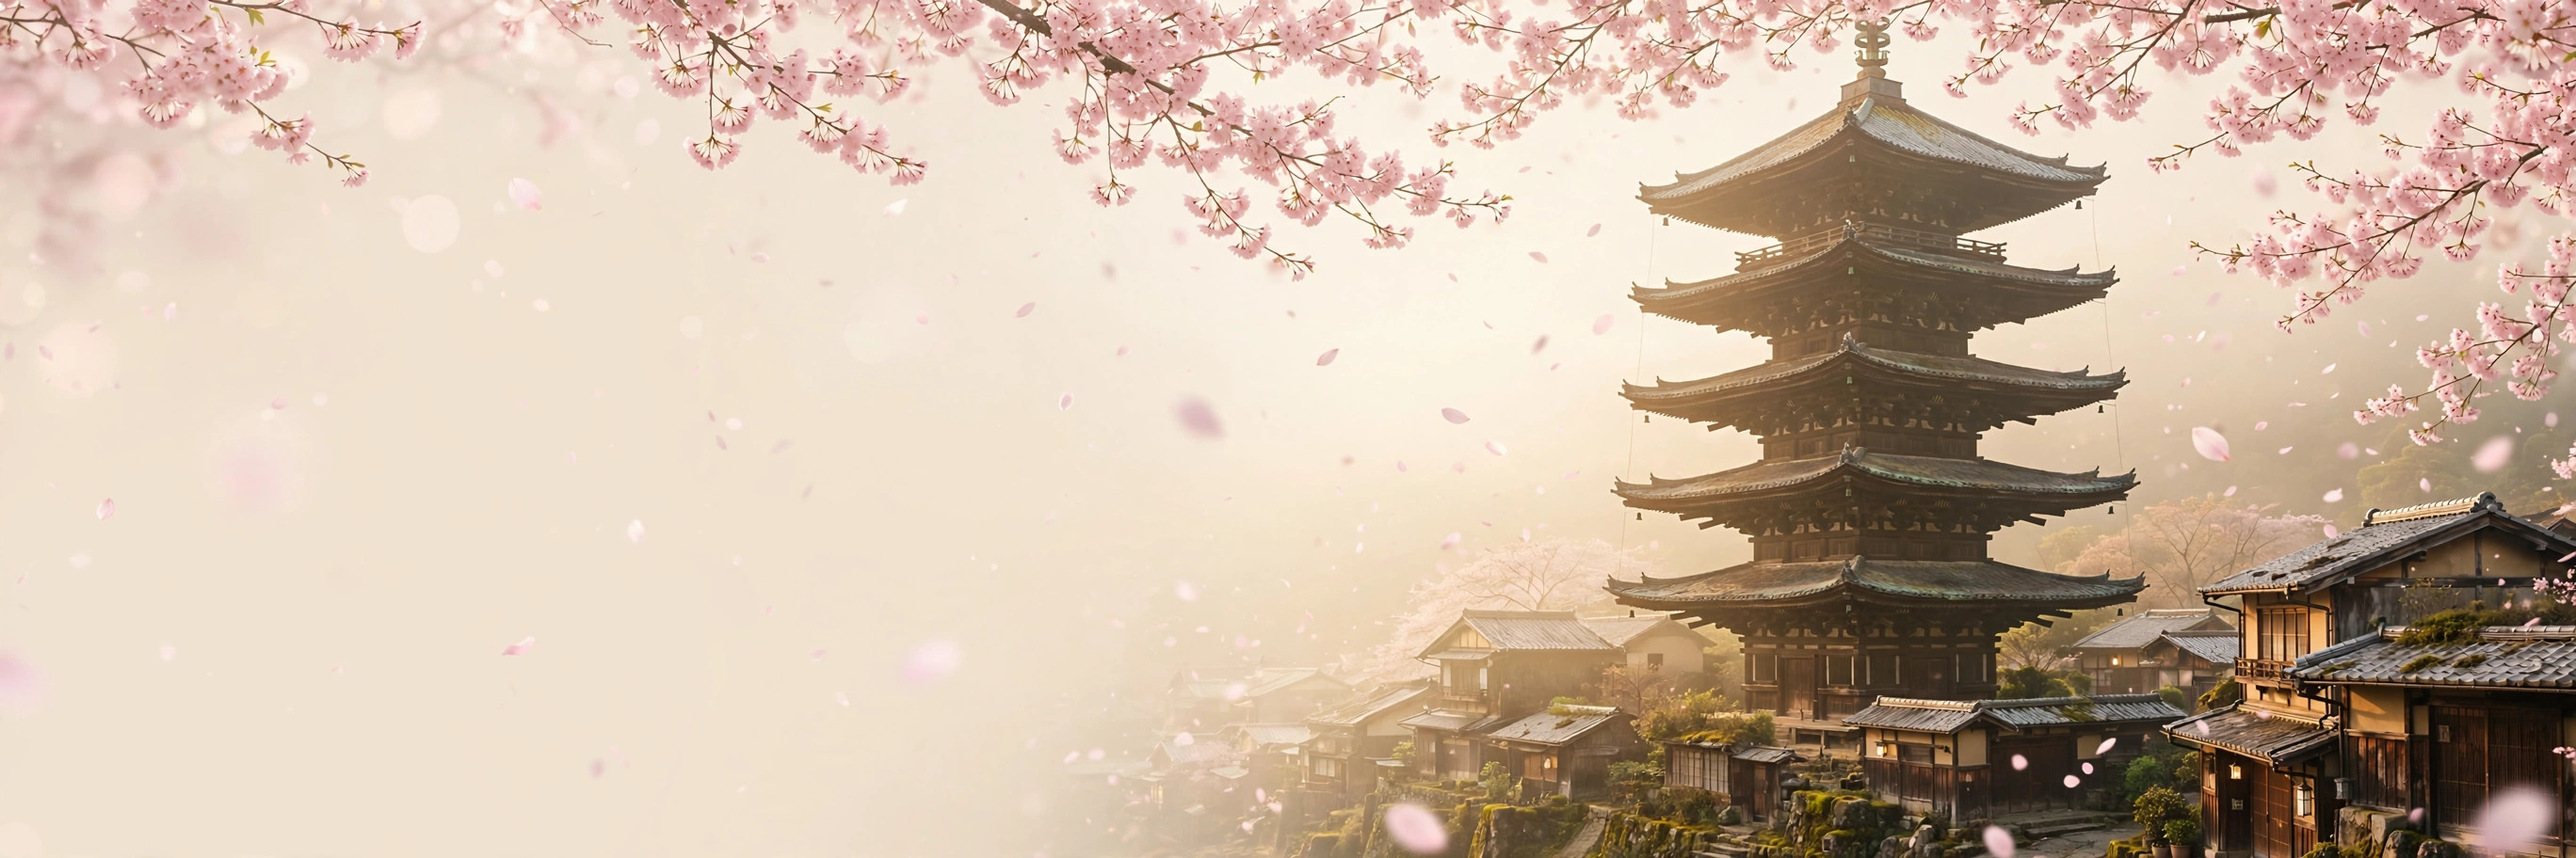
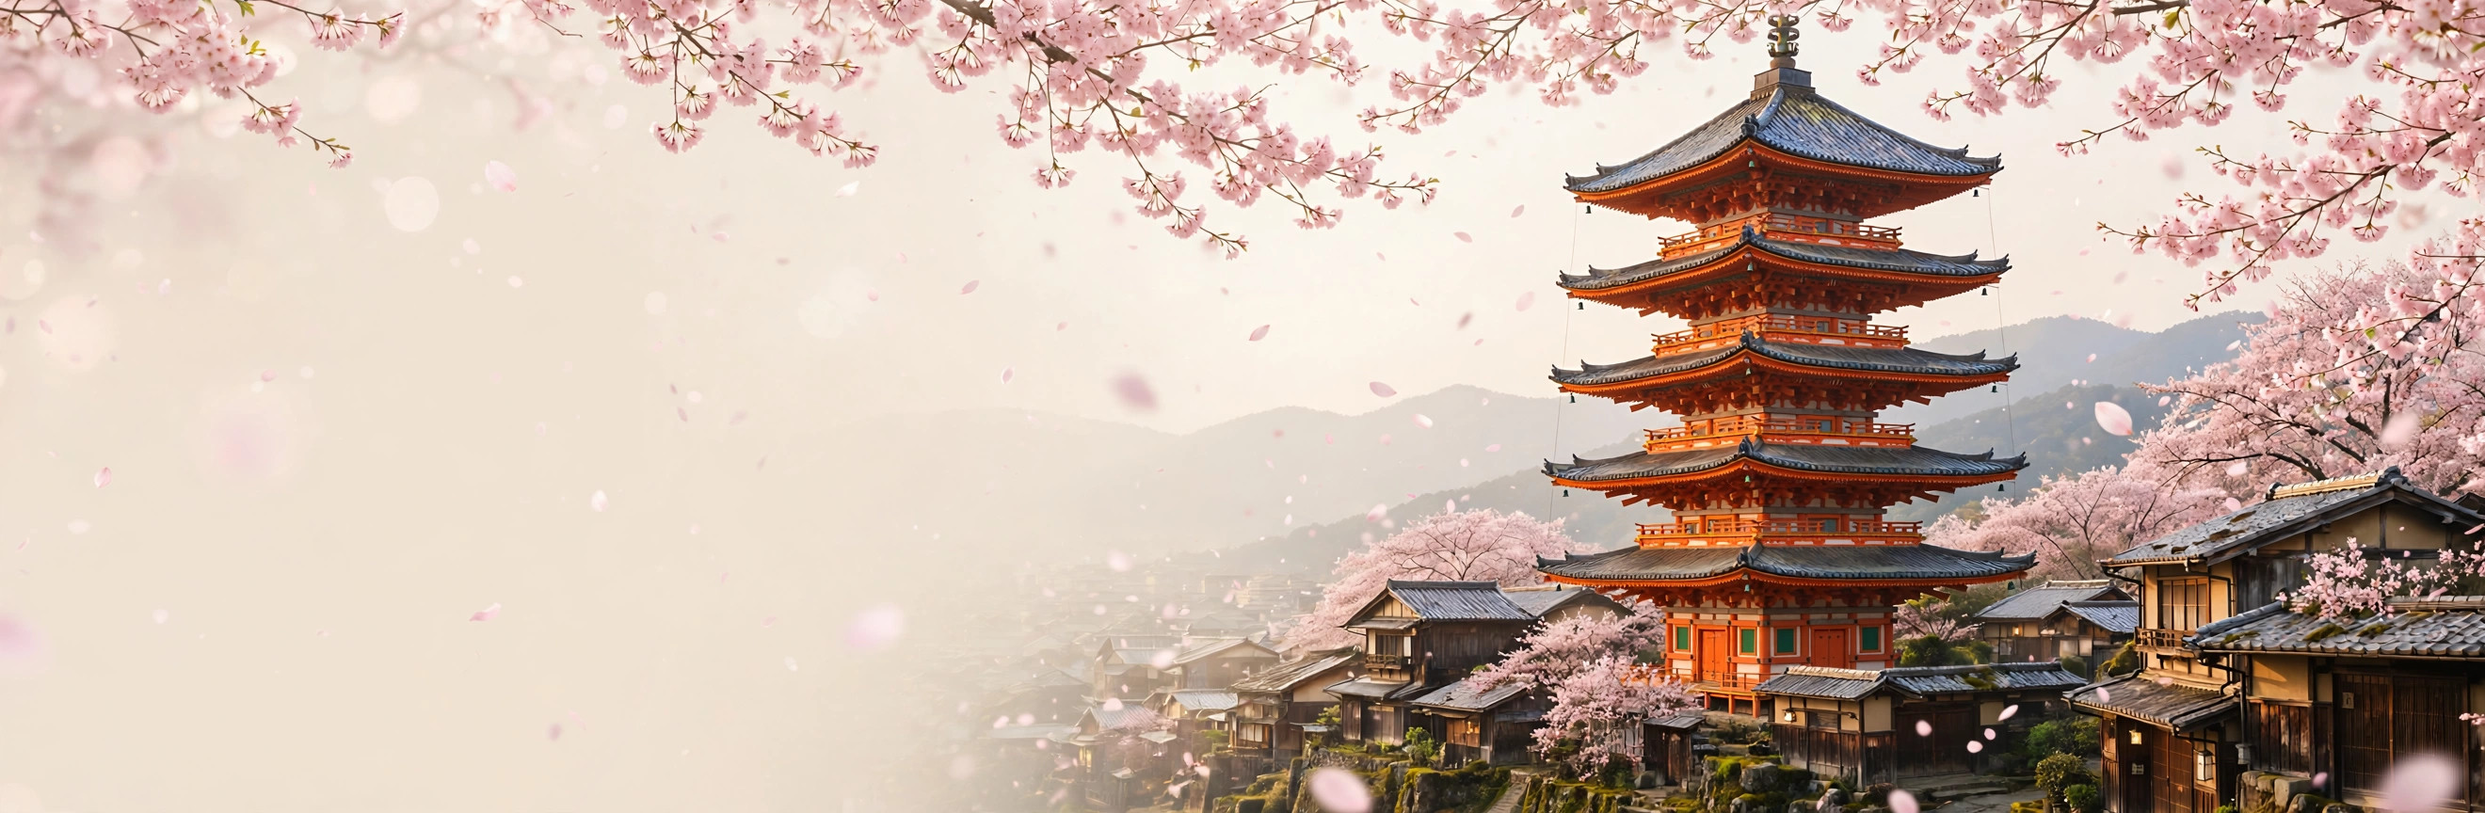
Hero pagoda restyle + faint sakura page background
- hero-kyoto.jpg: pagoda now vermilion walls + blue-grey roofs
  (Yasaka style), nestled in sakura with hazy mountains,
  closer to the reference mockup
- New bg-sakura-wash.jpg: very faint ink-wash sakura branches
  on cream, laid as a full-page background layer (.bgsakura)
  behind home content, matching the reference's beige backdrop

diff --git a/src/pages/home/index.vue b/src/pages/home/index.vue
@@ -1,5 +1,7 @@
 <template>
   <view class="home">
+    <!-- 页面底：淡淡水墨樱花（对标参考稿米黄底） -->
+    <view class="bgsakura"></view>
     <!-- HEADER：汉堡菜单 | 品牌 | 搜索+购物袋（对标参考稿） -->
     <view class="hdr">
       <view class="hds"><view class="hbtn" @click="openMenu" v-html="icMenu"></view></view>
@@ -233,7 +235,9 @@ const promoBg = `
 </script>
 
 <style lang="scss" scoped>
-.home{background:$paper;min-height:100vh}
+.home{background:$paper;min-height:100vh;position:relative}
+.bgsakura{position:absolute;left:0;top:0;right:0;bottom:0;pointer-events:none;opacity:.55;
+  background:url(@/static/img/bg-sakura-wash.jpg) no-repeat;background-size:100% 100%}
 /* header：实底 + 安全区，和 KyotoHeader 同一处理（真机不透字） */
 .hdr{display:flex;align-items:center;justify-content:space-between;
   padding:calc(#{$sp-2} + env(safe-area-inset-top)) $sp-3 18rpx;
